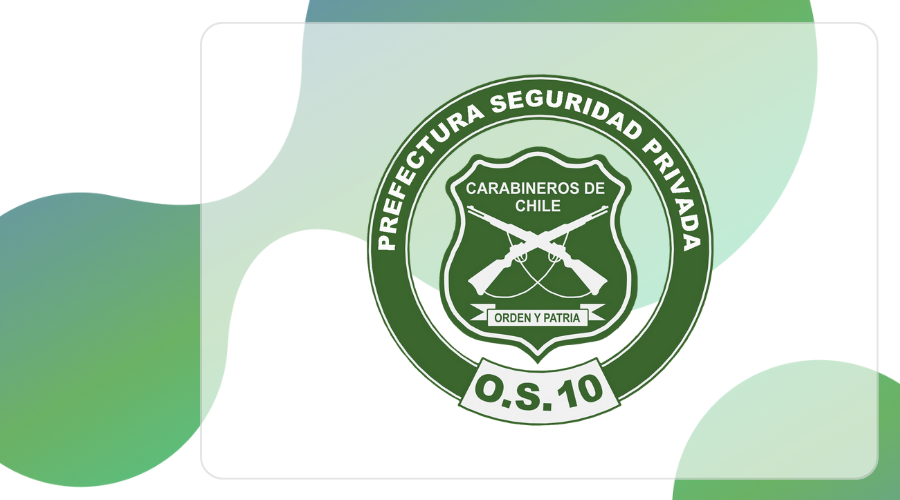
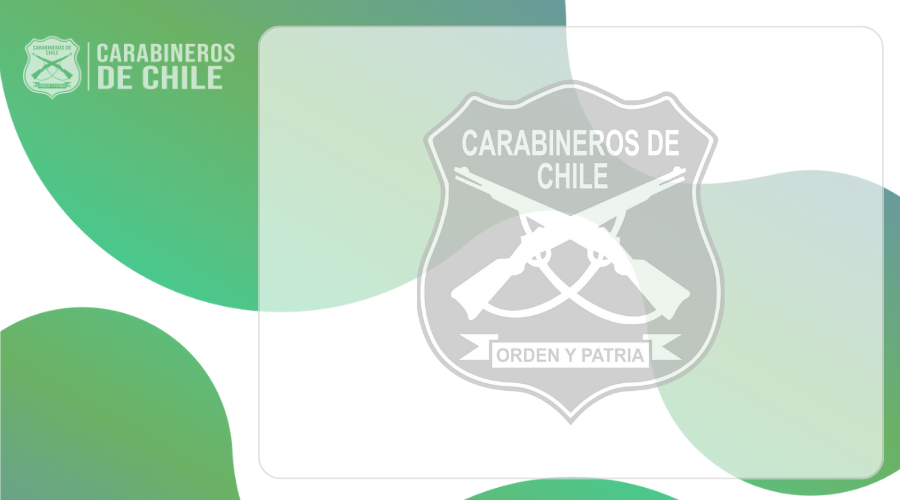
Se rediseño el inicio y agrego diseño al frame de cambios, terminando por agregar el boton volver a respaldo de armas y equipamiento

diff --git a/Armamentario/src/Admin/FrameRespaldoE.java b/Armamentario/src/Admin/FrameRespaldoE.java
@@ -49,6 +49,7 @@ public class FrameRespaldoE extends javax.swing.JFrame {
         pnlRespaldoA = new javax.swing.JPanel();
         btnEliminar = new javax.swing.JButton();
         btnRespaldo1 = new javax.swing.JButton();
+        btnVolver = new javax.swing.JButton();
         pnlsTabla1 = new javax.swing.JScrollPane();
         tblEquipoR = new javax.swing.JTable();
         jLabel1 = new javax.swing.JLabel();
@@ -59,7 +60,6 @@ public class FrameRespaldoE extends javax.swing.JFrame {
         setDefaultCloseOperation(javax.swing.WindowConstants.DISPOSE_ON_CLOSE);
         setTitle("Respaldo Equipamiento");
         setCursor(new java.awt.Cursor(java.awt.Cursor.DEFAULT_CURSOR));
-        setPreferredSize(new java.awt.Dimension(900, 620));
         setResizable(false);
 
         jPanel1.setPreferredSize(new java.awt.Dimension(900, 600));
@@ -82,15 +82,25 @@ public class FrameRespaldoE extends javax.swing.JFrame {
             }
         });
 
+        btnVolver.setFont(new java.awt.Font("Segoe UI", 0, 14)); // NOI18N
+        btnVolver.setText("Volver");
+        btnVolver.addActionListener(new java.awt.event.ActionListener() {
+            public void actionPerformed(java.awt.event.ActionEvent evt) {
+                btnVolverActionPerformed(evt);
+            }
+        });
+
         javax.swing.GroupLayout pnlRespaldoALayout = new javax.swing.GroupLayout(pnlRespaldoA);
         pnlRespaldoA.setLayout(pnlRespaldoALayout);
         pnlRespaldoALayout.setHorizontalGroup(
             pnlRespaldoALayout.createParallelGroup(javax.swing.GroupLayout.Alignment.LEADING)
             .addGroup(pnlRespaldoALayout.createSequentialGroup()
                 .addGap(20, 20, 20)
-                .addGroup(pnlRespaldoALayout.createParallelGroup(javax.swing.GroupLayout.Alignment.LEADING)
-                    .addComponent(btnRespaldo1, javax.swing.GroupLayout.PREFERRED_SIZE, 200, javax.swing.GroupLayout.PREFERRED_SIZE)
-                    .addComponent(btnEliminar, javax.swing.GroupLayout.PREFERRED_SIZE, 200, javax.swing.GroupLayout.PREFERRED_SIZE))
+                .addGroup(pnlRespaldoALayout.createParallelGroup(javax.swing.GroupLayout.Alignment.TRAILING)
+                    .addComponent(btnVolver, javax.swing.GroupLayout.PREFERRED_SIZE, 82, javax.swing.GroupLayout.PREFERRED_SIZE)
+                    .addGroup(pnlRespaldoALayout.createParallelGroup(javax.swing.GroupLayout.Alignment.LEADING)
+                        .addComponent(btnRespaldo1, javax.swing.GroupLayout.PREFERRED_SIZE, 200, javax.swing.GroupLayout.PREFERRED_SIZE)
+                        .addComponent(btnEliminar, javax.swing.GroupLayout.PREFERRED_SIZE, 200, javax.swing.GroupLayout.PREFERRED_SIZE)))
                 .addContainerGap(20, Short.MAX_VALUE))
         );
         pnlRespaldoALayout.setVerticalGroup(
@@ -100,7 +110,9 @@ public class FrameRespaldoE extends javax.swing.JFrame {
                 .addComponent(btnEliminar, javax.swing.GroupLayout.PREFERRED_SIZE, 43, javax.swing.GroupLayout.PREFERRED_SIZE)
                 .addGap(18, 18, 18)
                 .addComponent(btnRespaldo1, javax.swing.GroupLayout.PREFERRED_SIZE, 43, javax.swing.GroupLayout.PREFERRED_SIZE)
-                .addContainerGap(javax.swing.GroupLayout.DEFAULT_SIZE, Short.MAX_VALUE))
+                .addPreferredGap(javax.swing.LayoutStyle.ComponentPlacement.RELATED, javax.swing.GroupLayout.DEFAULT_SIZE, Short.MAX_VALUE)
+                .addComponent(btnVolver, javax.swing.GroupLayout.PREFERRED_SIZE, 31, javax.swing.GroupLayout.PREFERRED_SIZE)
+                .addGap(22, 22, 22))
         );
 
         tblEquipoR.setModel(new javax.swing.table.DefaultTableModel(
@@ -246,6 +258,10 @@ public class FrameRespaldoE extends javax.swing.JFrame {
         }
     }//GEN-LAST:event_btnRespaldo1ActionPerformed
 
+    private void btnVolverActionPerformed(java.awt.event.ActionEvent evt) {//GEN-FIRST:event_btnVolverActionPerformed
+        this.dispose();
+    }//GEN-LAST:event_btnVolverActionPerformed
+
     /**
      * @param args the command line arguments
      */
@@ -286,6 +302,7 @@ public class FrameRespaldoE extends javax.swing.JFrame {
     // Variables declaration - do not modify//GEN-BEGIN:variables
     private javax.swing.JButton btnEliminar;
     private javax.swing.JButton btnRespaldo1;
+    private javax.swing.JButton btnVolver;
     private javax.swing.JLabel jLabel1;
     private javax.swing.JLabel jLabel3;
     private javax.swing.JPanel jPanel1;

diff --git a/Armamentario/src/Admin/FrameRespaldoA.java b/Armamentario/src/Admin/FrameRespaldoA.java
@@ -47,6 +47,7 @@ public class FrameRespaldoA extends javax.swing.JFrame {
         pnlRespaldoA = new javax.swing.JPanel();
         btnEliminar = new javax.swing.JButton();
         btnRespaldo = new javax.swing.JButton();
+        btnVolver = new javax.swing.JButton();
         pnlsTabla1 = new javax.swing.JScrollPane();
         tblArmasR = new javax.swing.JTable();
         pnlsTabla3 = new javax.swing.JScrollPane();
@@ -56,7 +57,6 @@ public class FrameRespaldoA extends javax.swing.JFrame {
 
         setDefaultCloseOperation(javax.swing.WindowConstants.DISPOSE_ON_CLOSE);
         setTitle("Respaldo Armamento");
-        setPreferredSize(new java.awt.Dimension(900, 620));
         setResizable(false);
 
         pnlRespaldoA.setBorder(javax.swing.BorderFactory.createTitledBorder("Opciones"));
@@ -77,6 +77,14 @@ public class FrameRespaldoA extends javax.swing.JFrame {
             }
         });
 
+        btnVolver.setFont(new java.awt.Font("Segoe UI", 0, 14)); // NOI18N
+        btnVolver.setText("Volver");
+        btnVolver.addActionListener(new java.awt.event.ActionListener() {
+            public void actionPerformed(java.awt.event.ActionEvent evt) {
+                btnVolverActionPerformed(evt);
+            }
+        });
+
         javax.swing.GroupLayout pnlRespaldoALayout = new javax.swing.GroupLayout(pnlRespaldoA);
         pnlRespaldoA.setLayout(pnlRespaldoALayout);
         pnlRespaldoALayout.setHorizontalGroup(
@@ -85,7 +93,8 @@ public class FrameRespaldoA extends javax.swing.JFrame {
                 .addContainerGap(20, Short.MAX_VALUE)
                 .addGroup(pnlRespaldoALayout.createParallelGroup(javax.swing.GroupLayout.Alignment.LEADING)
                     .addComponent(btnRespaldo, javax.swing.GroupLayout.PREFERRED_SIZE, 200, javax.swing.GroupLayout.PREFERRED_SIZE)
-                    .addComponent(btnEliminar, javax.swing.GroupLayout.PREFERRED_SIZE, 200, javax.swing.GroupLayout.PREFERRED_SIZE))
+                    .addComponent(btnEliminar, javax.swing.GroupLayout.PREFERRED_SIZE, 200, javax.swing.GroupLayout.PREFERRED_SIZE)
+                    .addComponent(btnVolver, javax.swing.GroupLayout.Alignment.TRAILING, javax.swing.GroupLayout.PREFERRED_SIZE, 82, javax.swing.GroupLayout.PREFERRED_SIZE))
                 .addContainerGap(20, Short.MAX_VALUE))
         );
         pnlRespaldoALayout.setVerticalGroup(
@@ -95,7 +104,9 @@ public class FrameRespaldoA extends javax.swing.JFrame {
                 .addComponent(btnEliminar, javax.swing.GroupLayout.PREFERRED_SIZE, 43, javax.swing.GroupLayout.PREFERRED_SIZE)
                 .addGap(18, 18, 18)
                 .addComponent(btnRespaldo, javax.swing.GroupLayout.PREFERRED_SIZE, 43, javax.swing.GroupLayout.PREFERRED_SIZE)
-                .addContainerGap(javax.swing.GroupLayout.DEFAULT_SIZE, Short.MAX_VALUE))
+                .addPreferredGap(javax.swing.LayoutStyle.ComponentPlacement.RELATED, javax.swing.GroupLayout.DEFAULT_SIZE, Short.MAX_VALUE)
+                .addComponent(btnVolver, javax.swing.GroupLayout.PREFERRED_SIZE, 31, javax.swing.GroupLayout.PREFERRED_SIZE)
+                .addGap(16, 16, 16))
         );
 
         tblArmasR.setModel(new javax.swing.table.DefaultTableModel(
@@ -241,6 +252,10 @@ public class FrameRespaldoA extends javax.swing.JFrame {
         }
     }//GEN-LAST:event_btnRespaldoActionPerformed
 
+    private void btnVolverActionPerformed(java.awt.event.ActionEvent evt) {//GEN-FIRST:event_btnVolverActionPerformed
+        this.dispose();
+    }//GEN-LAST:event_btnVolverActionPerformed
+
     /**
      * @param args the command line arguments
      */
@@ -282,6 +297,7 @@ public class FrameRespaldoA extends javax.swing.JFrame {
     // Variables declaration - do not modify//GEN-BEGIN:variables
     private javax.swing.JButton btnEliminar;
     private javax.swing.JButton btnRespaldo;
+    private javax.swing.JButton btnVolver;
     private javax.swing.JLabel jLabel1;
     private javax.swing.JLabel jLabel3;
     private javax.swing.JPanel jPanel1;

diff --git a/Armamentario/src/Pestañas/FrameInicio.java b/Armamentario/src/Pestañas/FrameInicio.java
@@ -106,7 +106,7 @@ public class FrameInicio extends javax.swing.JFrame {
                 btnArmasActionPerformed(evt);
             }
         });
-        pnlFondo.add(btnArmas, new org.netbeans.lib.awtextra.AbsoluteConstraints(20, 80, 160, 50));
+        pnlFondo.add(btnArmas, new org.netbeans.lib.awtextra.AbsoluteConstraints(50, 140, 160, 50));
 
         btnEquipamiento.setBackground(new java.awt.Color(40, 114, 51));
         btnEquipamiento.setFont(new java.awt.Font("Yu Gothic UI Semibold", 1, 20)); // NOI18N
@@ -117,7 +117,7 @@ public class FrameInicio extends javax.swing.JFrame {
                 btnEquipamientoActionPerformed(evt);
             }
         });
-        pnlFondo.add(btnEquipamiento, new org.netbeans.lib.awtextra.AbsoluteConstraints(20, 150, 160, 50));
+        pnlFondo.add(btnEquipamiento, new org.netbeans.lib.awtextra.AbsoluteConstraints(50, 210, 160, 50));
 
         btnHistorial.setBackground(new java.awt.Color(40, 114, 51));
         btnHistorial.setFont(new java.awt.Font("Yu Gothic UI Semibold", 1, 20)); // NOI18N
@@ -128,17 +128,17 @@ public class FrameInicio extends javax.swing.JFrame {
                 btnHistorialActionPerformed(evt);
             }
         });
-        pnlFondo.add(btnHistorial, new org.netbeans.lib.awtextra.AbsoluteConstraints(20, 220, 160, 50));
+        pnlFondo.add(btnHistorial, new org.netbeans.lib.awtextra.AbsoluteConstraints(50, 280, 160, 50));
 
         lbIH.setText("Hora:");
-        pnlFondo.add(lbIH, new org.netbeans.lib.awtextra.AbsoluteConstraints(40, 330, -1, -1));
+        pnlFondo.add(lbIH, new org.netbeans.lib.awtextra.AbsoluteConstraints(60, 380, -1, -1));
 
         lbIF.setText("Fecha:");
-        pnlFondo.add(lbIF, new org.netbeans.lib.awtextra.AbsoluteConstraints(40, 360, -1, -1));
-        pnlFondo.add(lblHora, new org.netbeans.lib.awtextra.AbsoluteConstraints(100, 330, -1, -1));
-        pnlFondo.add(lblFecha, new org.netbeans.lib.awtextra.AbsoluteConstraints(100, 360, -1, -1));
+        pnlFondo.add(lbIF, new org.netbeans.lib.awtextra.AbsoluteConstraints(60, 410, -1, -1));
+        pnlFondo.add(lblHora, new org.netbeans.lib.awtextra.AbsoluteConstraints(120, 380, -1, -1));
+        pnlFondo.add(lblFecha, new org.netbeans.lib.awtextra.AbsoluteConstraints(120, 410, -1, -1));
 
-        lbInicio.setIcon(new javax.swing.ImageIcon(getClass().getResource("/Imagenes/inicio2.png"))); // NOI18N
+        lbInicio.setIcon(new javax.swing.ImageIcon(getClass().getResource("/Imagenes/inicio.png"))); // NOI18N
         pnlFondo.add(lbInicio, new org.netbeans.lib.awtextra.AbsoluteConstraints(0, 0, -1, -1));
 
         menuOpciones.setText("Cerrar Sesión");

diff --git a/Armamentario/src/Pestañas/FrameCambios.java b/Armamentario/src/Pestañas/FrameCambios.java
@@ -51,6 +51,7 @@ public class FrameCambios extends javax.swing.JFrame {
         pnlsTabla = new javax.swing.JScrollPane();
         tblCambios = new javax.swing.JTable();
         btnVolver = new javax.swing.JButton();
+        lbCambios = new javax.swing.JLabel();
         mnbMenu = new javax.swing.JMenuBar();
         menuOpciones = new javax.swing.JMenu();
         itemLogout = new javax.swing.JMenuItem();
@@ -86,6 +87,7 @@ public class FrameCambios extends javax.swing.JFrame {
                 return canEdit [columnIndex];
             }
         });
+        tblCambios.setSelectionBackground(new java.awt.Color(204, 204, 204));
         pnlsTabla.setViewportView(tblCambios);
         if (tblCambios.getColumnModel().getColumnCount() > 0) {
             tblCambios.getColumnModel().getColumn(0).setResizable(false);
@@ -95,15 +97,20 @@ public class FrameCambios extends javax.swing.JFrame {
             tblCambios.getColumnModel().getColumn(4).setResizable(false);
         }
 
-        pnlFondo.add(pnlsTabla, new org.netbeans.lib.awtextra.AbsoluteConstraints(30, 20, 840, -1));
+        pnlFondo.add(pnlsTabla, new org.netbeans.lib.awtextra.AbsoluteConstraints(50, 30, 800, 400));
 
+        btnVolver.setBackground(new java.awt.Color(40, 114, 51));
+        btnVolver.setForeground(new java.awt.Color(255, 255, 255));
         btnVolver.setText("Volver");
         btnVolver.addActionListener(new java.awt.event.ActionListener() {
             public void actionPerformed(java.awt.event.ActionEvent evt) {
                 btnVolverActionPerformed(evt);
             }
         });
-        pnlFondo.add(btnVolver, new org.netbeans.lib.awtextra.AbsoluteConstraints(30, 460, 170, -1));
+        pnlFondo.add(btnVolver, new org.netbeans.lib.awtextra.AbsoluteConstraints(50, 460, 170, -1));
+
+        lbCambios.setIcon(new javax.swing.ImageIcon(getClass().getResource("/Imagenes/cambios.png"))); // NOI18N
+        pnlFondo.add(lbCambios, new org.netbeans.lib.awtextra.AbsoluteConstraints(0, 0, -1, -1));
 
         menuOpciones.setText("Cerrar Sesión");
 
@@ -183,6 +190,7 @@ public class FrameCambios extends javax.swing.JFrame {
     // Variables declaration - do not modify//GEN-BEGIN:variables
     private javax.swing.JButton btnVolver;
     private javax.swing.JMenuItem itemLogout;
+    private javax.swing.JLabel lbCambios;
     private javax.swing.JMenu menuOpciones;
     private javax.swing.JMenuBar mnbMenu;
     private javax.swing.JPanel pnlFondo;

diff --git a/Armamentario/src/Armamento/EditarA.java b/Armamentario/src/Armamento/EditarA.java
@@ -44,7 +44,7 @@ public class EditarA extends javax.swing.JFrame {
         lbNSerie = new javax.swing.JLabel();
         lbCategoria = new javax.swing.JLabel();
         lbDetalle = new javax.swing.JLabel();
-        jLabel1 = new javax.swing.JLabel();
+        jLabel2 = new javax.swing.JLabel();
 
         setDefaultCloseOperation(javax.swing.WindowConstants.DISPOSE_ON_CLOSE);
         setTitle("Editar Arma");
@@ -86,8 +86,8 @@ public class EditarA extends javax.swing.JFrame {
         lbDetalle.setText("Detalles");
         pnlFondo.add(lbDetalle, new org.netbeans.lib.awtextra.AbsoluteConstraints(180, 150, -1, -1));
 
-        jLabel1.setIcon(new javax.swing.ImageIcon(getClass().getResource("/Imagenes/Editar.png"))); // NOI18N
-        pnlFondo.add(jLabel1, new org.netbeans.lib.awtextra.AbsoluteConstraints(0, 0, -1, -1));
+        jLabel2.setIcon(new javax.swing.ImageIcon(getClass().getResource("/Imagenes/editar.png"))); // NOI18N
+        pnlFondo.add(jLabel2, new org.netbeans.lib.awtextra.AbsoluteConstraints(0, 0, -1, -1));
 
         javax.swing.GroupLayout layout = new javax.swing.GroupLayout(getContentPane());
         getContentPane().setLayout(layout);
@@ -136,7 +136,7 @@ public class EditarA extends javax.swing.JFrame {
     // Variables declaration - do not modify//GEN-BEGIN:variables
     private javax.swing.JButton btnGuardar;
     private javax.swing.JComboBox<String> cmbCategoria;
-    private javax.swing.JLabel jLabel1;
+    private javax.swing.JLabel jLabel2;
     private javax.swing.JLabel lbCategoria;
     private javax.swing.JLabel lbDetalle;
     private javax.swing.JLabel lbNSerie;
